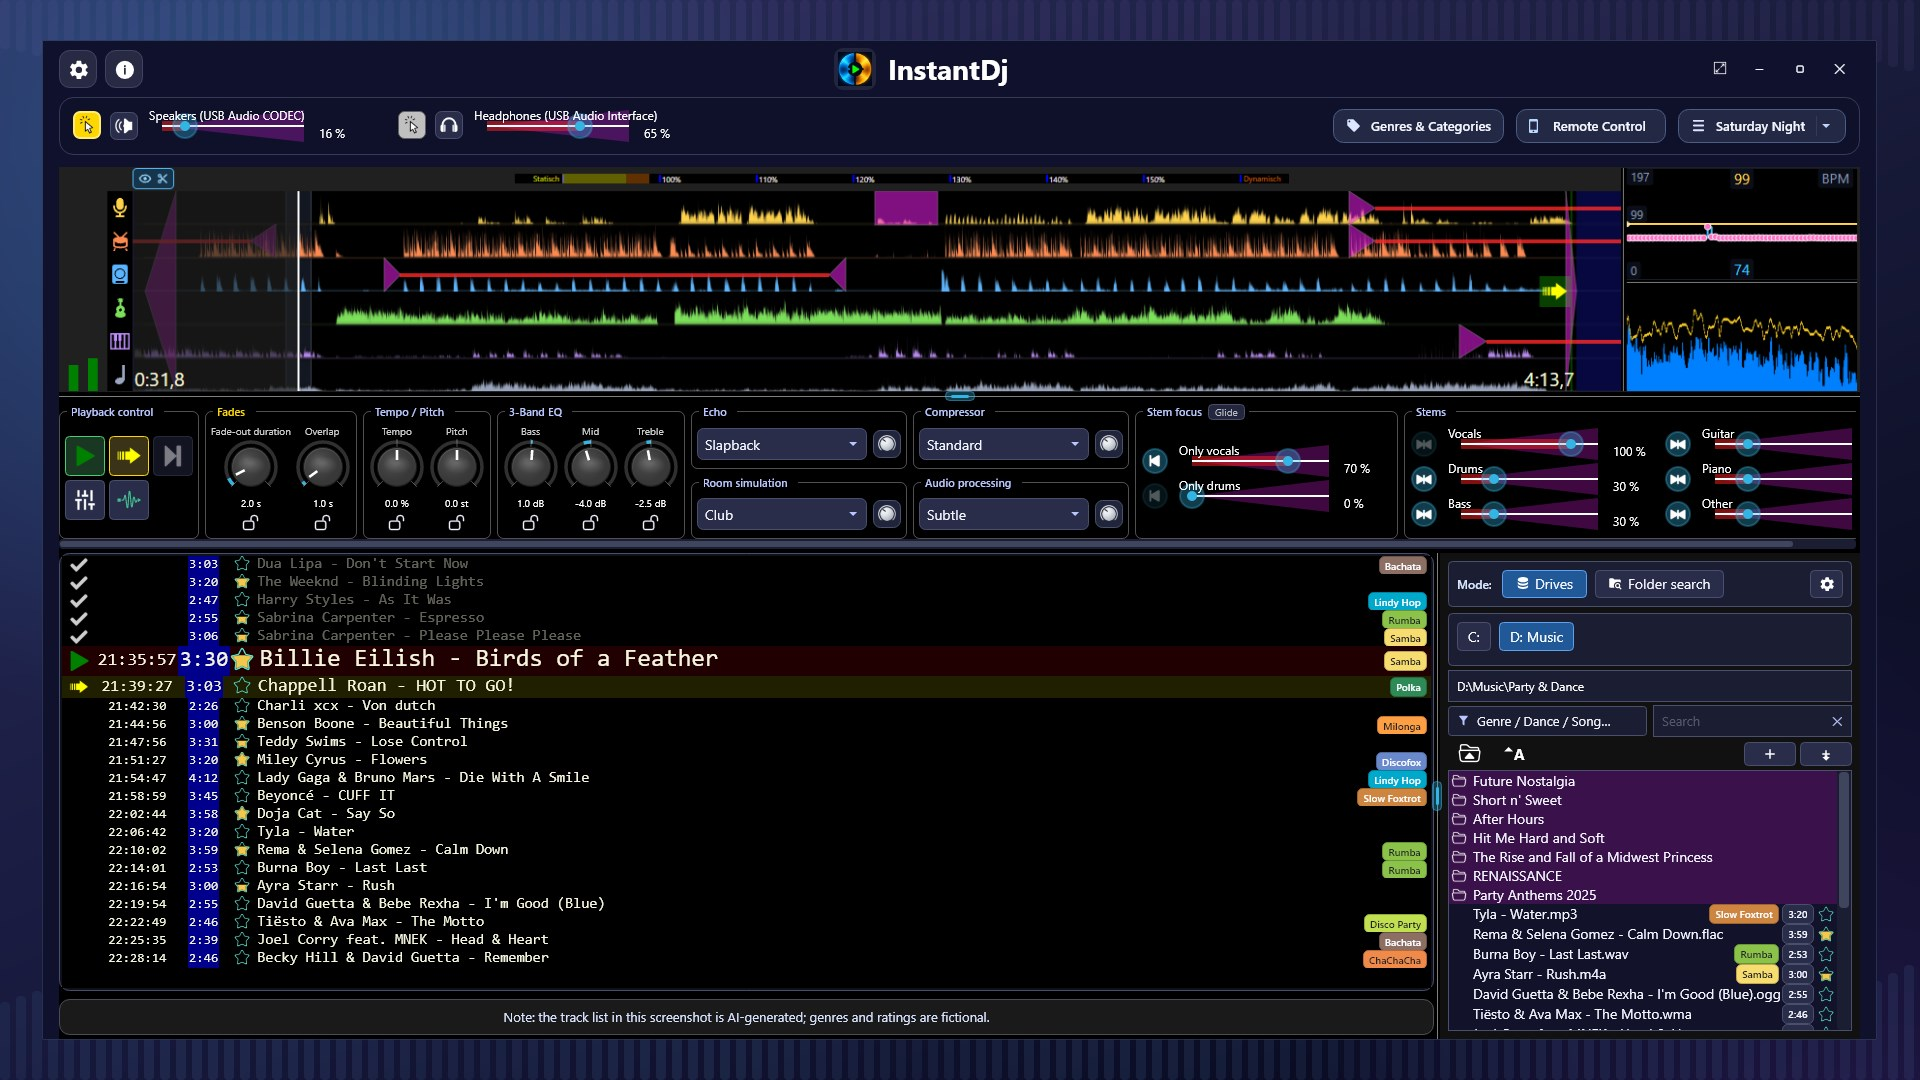
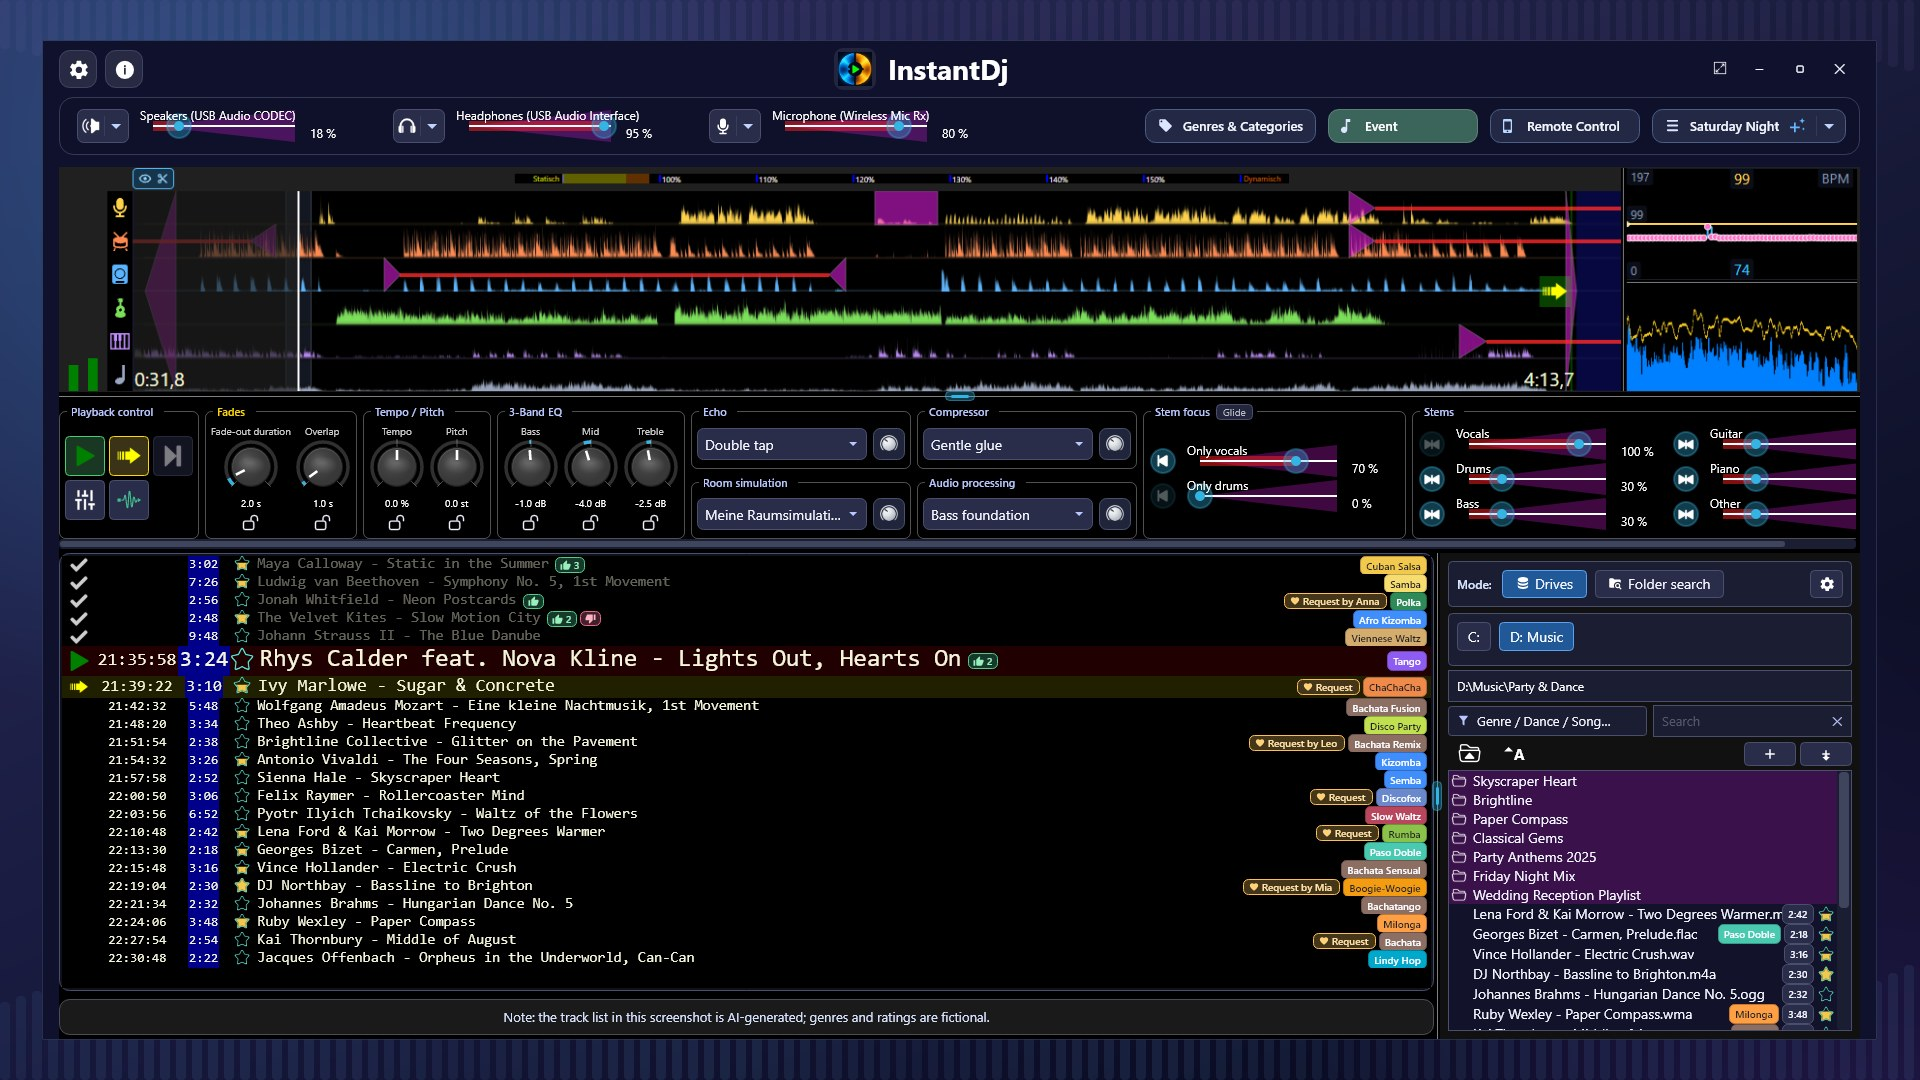
Screenshots auf den aktuellen englischen Store-Stand gebracht (10 Motive)

diff --git a/README.md b/README.md
@@ -9,16 +9,23 @@ InstantDj is a DJ application for parties, events and mobile DJs. Preview, play,
 ![InstantDj main window](Assets/screenshots/screenshot-1.jpg)
 
 <p>
-  <img src="Assets/screenshots/screenshot-2.jpg" width="49%" alt="Screenshot 2" />
-  <img src="Assets/screenshots/screenshot-3.jpg" width="49%" alt="Screenshot 3" />
+  <img src="Assets/screenshots/screenshot-2.jpg" width="49%" alt="Remote control on smartphones" />
+  <img src="Assets/screenshots/screenshot-3.jpg" width="49%" alt="Effects on the headphone player" />
 </p>
 <p>
-  <img src="Assets/screenshots/screenshot-4.jpg" width="49%" alt="Screenshot 4" />
-  <img src="Assets/screenshots/screenshot-5.jpg" width="49%" alt="Screenshot 5" />
+  <img src="Assets/screenshots/screenshot-4.jpg" width="49%" alt="Settings: audio devices and microphones" />
+  <img src="Assets/screenshots/screenshot-5.jpg" width="49%" alt="Genres and categories" />
 </p>
 <p>
-  <img src="Assets/screenshots/screenshot-6.jpg" width="49%" alt="Screenshot 6" />
-  <img src="Assets/screenshots/screenshot-7.jpg" width="49%" alt="Screenshot 7" />
+  <img src="Assets/screenshots/screenshot-6.jpg" width="49%" alt="Remote control and headphone monitoring on a mobile device" />
+  <img src="Assets/screenshots/screenshot-7.jpg" width="49%" alt="Stem separation in the headphone player" />
+</p>
+<p>
+  <img src="Assets/screenshots/screenshot-8.jpg" width="49%" alt="Microphone pass-through" />
+  <img src="Assets/screenshots/screenshot-9.jpg" width="49%" alt="Event page for guests and song requests" />
+</p>
+<p>
+  <img src="Assets/screenshots/screenshot-10.jpg" width="49%" alt="Automatic playlist filling" />
 </p>
 
 ## About InstantDj
